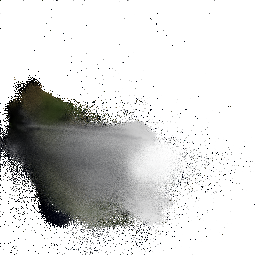
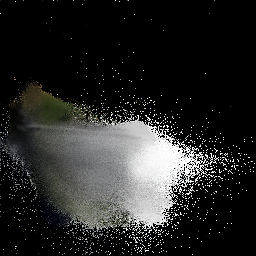
Use RGB for palettes instead of RGBA

diff --git a/pngio.c b/pngio.c
@@ -220,8 +220,8 @@ int readPalette(char *filename, rgb_t **pixels) {
 	}else if(bit_depth != 8){
 		fprintf(stderr, "Palette must be 8 bit color.\n");
 		return 0;
-	}else if(color_type != PNG_COLOR_TYPE_RGBA){
-		fprintf(stderr, "Palette must be RGBA.\n");
+	}else if(color_type != PNG_COLOR_TYPE_RGB){
+		fprintf(stderr, "Palette must be RGB.\n");
 		return 0;
 	}
 
@@ -244,9 +244,9 @@ int readPalette(char *filename, rgb_t **pixels) {
 
 		for(int x = 0; x < width; x++)
 			pixels[y][x] = (rgb_t){
-				PNGrows[y][x*4],
-				PNGrows[y][x*4 + 1], 
-				PNGrows[y][x*4 + 2]
+				PNGrows[y][x*3],
+				PNGrows[y][x*3 + 1], 
+				PNGrows[y][x*3 + 2]
 			};
 	}
 
